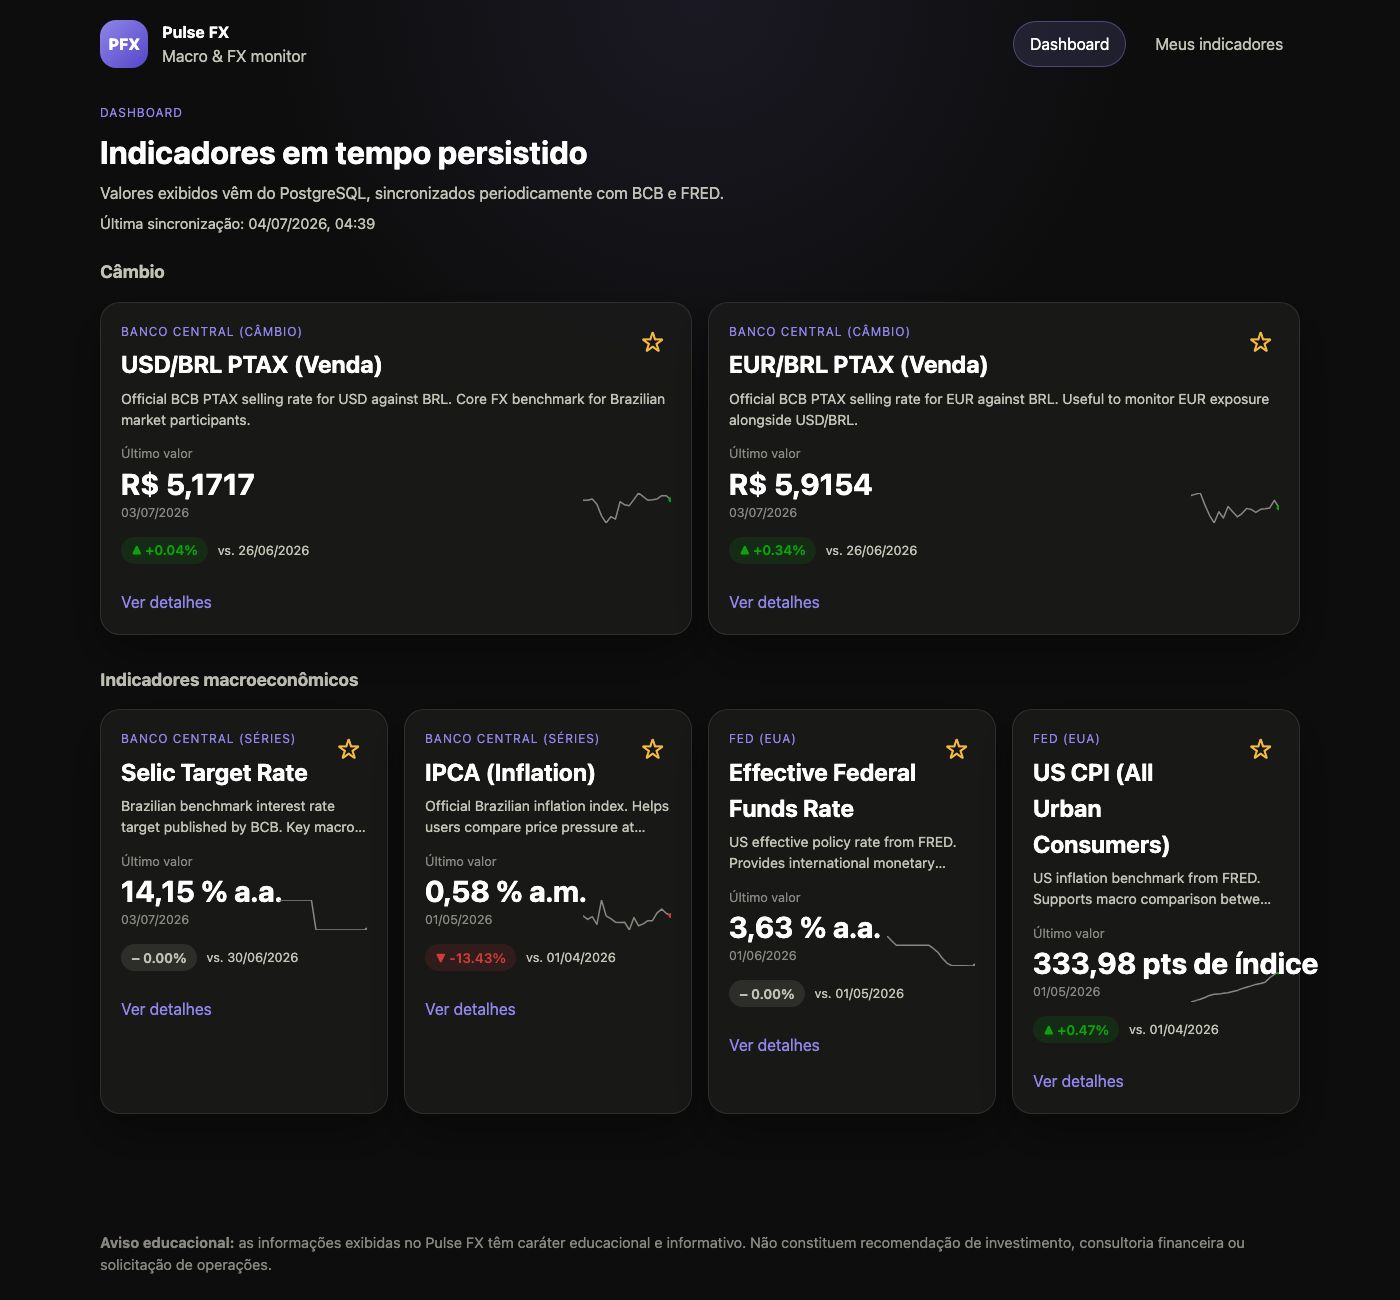
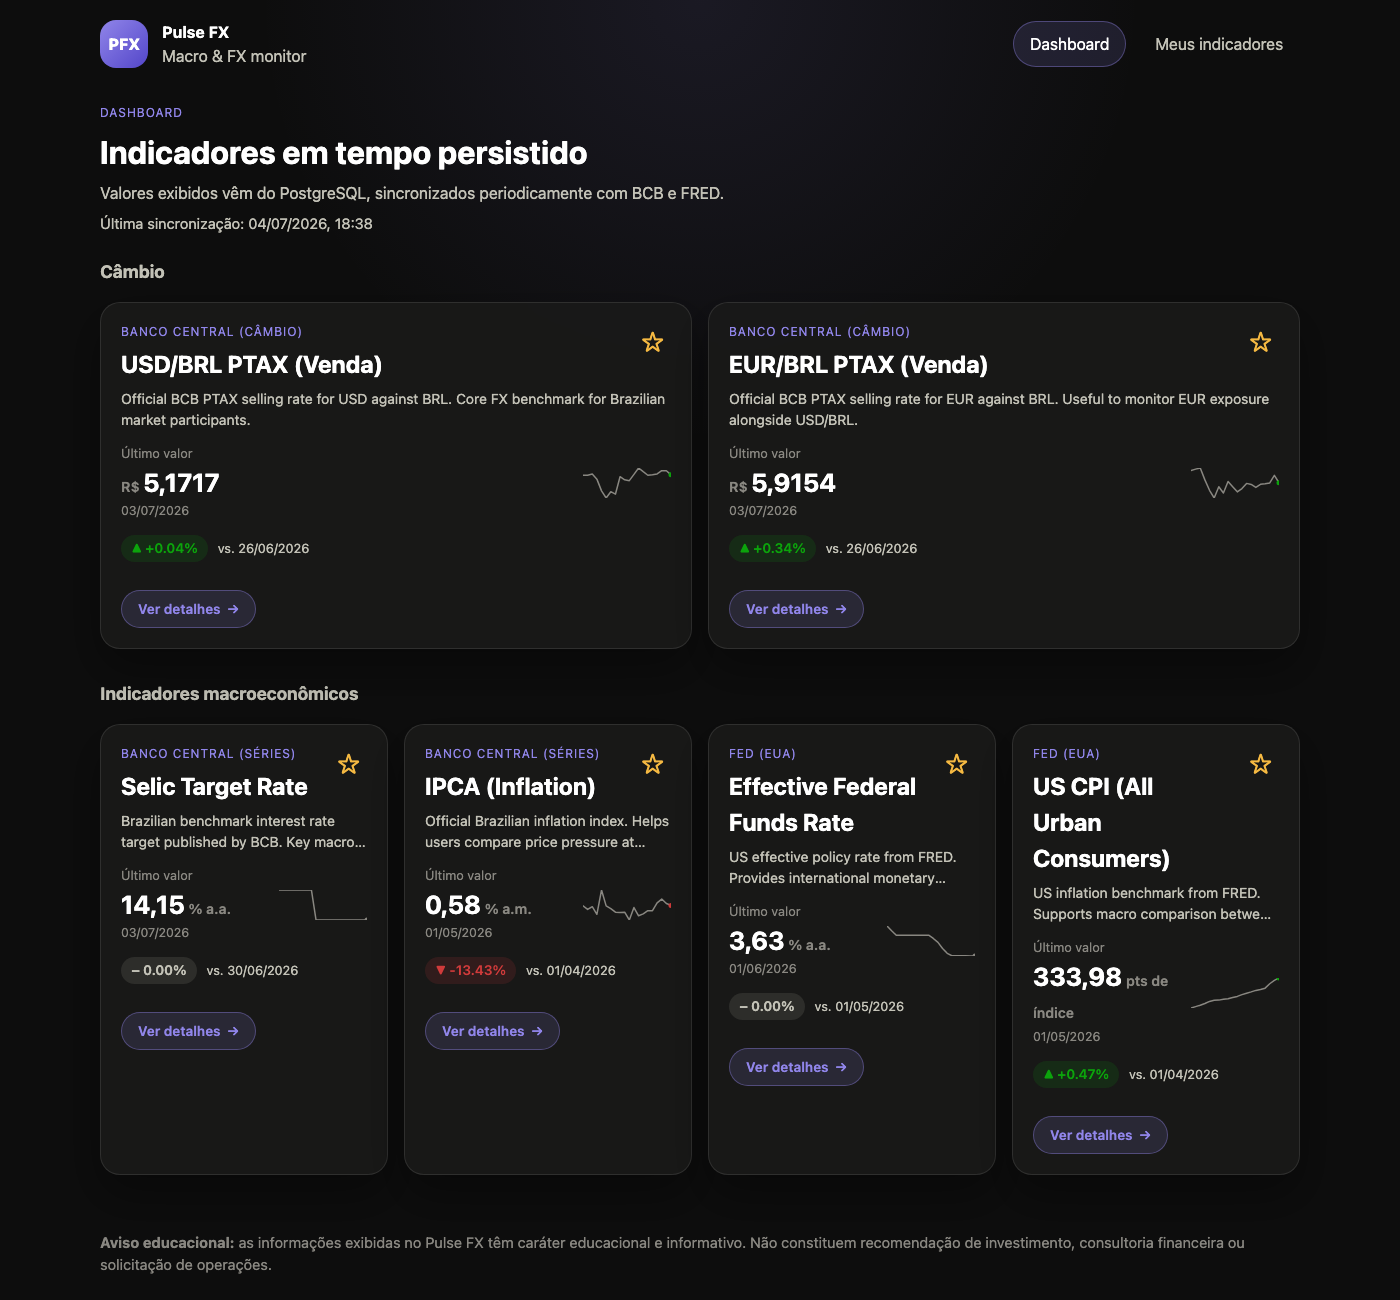
fix(web): keep card values from overflowing and style detail links as buttons
Long unit strings ("pts de índice") were rendered at the same size and
weight as the number itself with white-space: nowrap, so they either
overflowed the card (dashboard) or overlapped the neighboring column
(detail page stat summary) instead of wrapping.

Extract the number/unit split into a shared ValueWithUnit component:
the number stays the large bold figure, the unit rides along as a
smaller, muted, wrappable suffix — so it never competes with the
number for attention and never overflows regardless of how long the
unit text is. Also restyles "Ver detalhes"/"Abrir detalhe" as a proper
pill button instead of a plain colored link, and fixes FavoritesPage
to use the same friendly source labels as the rest of the app.

diff --git a/apps/web/src/styles/global.css b/apps/web/src/styles/global.css
@@ -215,6 +215,13 @@ a:focus-visible {
 .metric-value.large {
   font-size: 2rem;
   white-space: normal;
+  overflow-wrap: break-word;
+}
+
+.value-unit {
+  font-size: 0.55em;
+  font-weight: 600;
+  color: var(--ink-muted);
 }
 
 .variation-positive {
@@ -231,7 +238,7 @@ a:focus-visible {
 
 .card-hero {
   display: flex;
-  align-items: flex-end;
+  align-items: center;
   justify-content: space-between;
   gap: 1rem;
   margin: 0.9rem 0;
@@ -242,14 +249,16 @@ a:focus-visible {
   flex-direction: column;
   gap: 0.2rem;
   min-width: 0;
+  flex: 1;
 }
 
 .hero-value {
-  font-size: 1.85rem;
+  font-size: 1.6rem;
   font-weight: 700;
-  line-height: 1.15;
+  line-height: 1.25;
   color: var(--ink-primary);
-  white-space: nowrap;
+  white-space: normal;
+  overflow-wrap: break-word;
 }
 
 .hero-date {
@@ -312,8 +321,26 @@ a:focus-visible {
 
 .card-link {
   display: inline-flex;
-  margin-top: 0.75rem;
+  align-items: center;
+  gap: 0.4rem;
+  margin-top: 0.9rem;
+  padding: 0.5rem 1rem;
+  border-radius: 999px;
+  background: var(--brand-soft);
+  border: 1px solid var(--brand-border);
   color: var(--brand);
+  font-size: 0.85rem;
+  font-weight: 600;
+  transition:
+    background-color 0.15s ease,
+    color 0.15s ease,
+    transform 0.15s ease;
+}
+
+.card-link:hover {
+  background: var(--brand);
+  color: var(--surface-card-solid);
+  transform: translateX(2px);
 }
 
 .state-panel {

diff --git a/apps/web/src/shared/components/ValueWithUnit.tsx b/apps/web/src/shared/components/ValueWithUnit.tsx
@@ -1,0 +1,31 @@
+import { formatValue } from '../lib/format.js';
+
+interface ValueWithUnitProps {
+  value: number | null | undefined;
+  periodicity: 'DAILY' | 'MONTHLY';
+  prefix?: string | null;
+  suffix?: string | null;
+  className?: string;
+}
+
+// The unit (R$, % a.a., pts de índice, ...) rides alongside the number but
+// must never compete with it visually — otherwise a long unit like "pts de
+// índice" reads as loud as the number itself and, at the hero font size,
+// overflows its column instead of wrapping. Rendering it as a smaller,
+// muted span keeps the number the one thing the eye lands on first and
+// gives the browser a natural word-break point to wrap on if space is tight.
+export function ValueWithUnit({ value, periodicity, prefix, suffix, className }: ValueWithUnitProps) {
+  const formatted = formatValue(value, periodicity);
+
+  if (value === null || value === undefined) {
+    return <strong className={className}>{formatted}</strong>;
+  }
+
+  return (
+    <strong className={className}>
+      {prefix ? <span className="value-unit">{prefix} </span> : null}
+      {formatted}
+      {suffix ? <span className="value-unit"> {suffix}</span> : null}
+    </strong>
+  );
+}

diff --git a/apps/web/src/features/dashboard/IndicatorCard.tsx b/apps/web/src/features/dashboard/IndicatorCard.tsx
@@ -4,9 +4,9 @@ import {
   formatDate,
   formatPercent,
   formatSourceLabel,
-  formatValueWithUnit,
   variationClassName,
 } from '../../shared/lib/format.js';
+import { ValueWithUnit } from '../../shared/components/ValueWithUnit.js';
 import { Sparkline, type TrendDirection } from './Sparkline.js';
 
 interface IndicatorCardProps {
@@ -47,14 +47,13 @@ export function IndicatorCard({ indicator, onToggleFavorite, isUpdating }: Indic
       <div className="card-hero">
         <div className="hero-value-block">
           <span className="metric-label">Último valor</span>
-          <strong className="hero-value">
-            {formatValueWithUnit(
-              indicator.latestValue,
-              indicator.periodicity,
-              indicator.valuePrefix,
-              indicator.valueSuffix,
-            )}
-          </strong>
+          <ValueWithUnit
+            className="hero-value"
+            value={indicator.latestValue}
+            periodicity={indicator.periodicity}
+            prefix={indicator.valuePrefix}
+            suffix={indicator.valueSuffix}
+          />
           <span className="hero-date">{formatDate(indicator.referenceDate)}</span>
         </div>
         <Sparkline values={indicator.sparkline} direction={trendDirection(indicator.percentChange)} />
@@ -72,7 +71,7 @@ export function IndicatorCard({ indicator, onToggleFavorite, isUpdating }: Indic
       </div>
 
       <Link to={`/indicators/${indicator.code}`} className="card-link">
-        Ver detalhes
+        Ver detalhes <span aria-hidden="true">→</span>
       </Link>
     </article>
   );

diff --git a/apps/web/src/features/indicator-detail/IndicatorDetailPage.tsx b/apps/web/src/features/indicator-detail/IndicatorDetailPage.tsx
@@ -19,6 +19,7 @@ import {
   formatValueWithUnit,
   variationClassName,
 } from '../../shared/lib/format.js';
+import { ValueWithUnit } from '../../shared/components/ValueWithUnit.js';
 
 export function IndicatorDetailPage() {
   const { code = '' } = useParams();
@@ -79,14 +80,13 @@ export function IndicatorDetailPage() {
       <div className="detail-summary card">
         <div>
           <span className="metric-label">Último valor</span>
-          <strong className="metric-value large">
-            {formatValueWithUnit(
-              indicator.latestValue,
-              indicator.periodicity,
-              indicator.valuePrefix,
-              indicator.valueSuffix,
-            )}
-          </strong>
+          <ValueWithUnit
+            className="metric-value large"
+            value={indicator.latestValue}
+            periodicity={indicator.periodicity}
+            prefix={indicator.valuePrefix}
+            suffix={indicator.valueSuffix}
+          />
         </div>
         <div>
           <span className="metric-label">Referência</span>

diff --git a/apps/web/src/features/dashboard/IndicatorCard.test.tsx b/apps/web/src/features/dashboard/IndicatorCard.test.tsx
@@ -53,9 +53,15 @@ describe('IndicatorCard', () => {
   });
 
   it('shows the value unit and a reader-friendly source label', () => {
-    renderCard(baseIndicator);
-    expect(screen.getByText('R$ 5,6000')).toBeInTheDocument();
+    const { container } = renderCard(baseIndicator);
+    expect(container.querySelector('.hero-value')?.textContent).toBe('R$ 5,6000');
     expect(screen.getByText('Banco Central (câmbio)')).toBeInTheDocument();
+  });
+
+  it('renders the unit as a de-emphasized suffix, not a naked number', () => {
+    const { container } = renderCard({ ...baseIndicator, valuePrefix: null, valueSuffix: '% a.a.' });
+    expect(container.querySelector('.hero-value')?.textContent).toBe('5,6000 % a.a.');
+    expect(container.querySelector('.value-unit')?.textContent).toBe(' % a.a.');
   });
 
   it('renders a sparkline when enough history is available', () => {

diff --git a/apps/web/src/features/favorites/FavoritesPage.tsx b/apps/web/src/features/favorites/FavoritesPage.tsx
@@ -1,6 +1,7 @@
 import { useQuery } from '@tanstack/react-query';
 import { Link } from 'react-router-dom';
 import { api } from '../../shared/api/client.js';
+import { formatSourceLabel } from '../../shared/lib/format.js';
 
 export function FavoritesPage() {
   const favoritesQuery = useQuery({
@@ -37,12 +38,12 @@ export function FavoritesPage() {
           {favoritesQuery.data.map((favorite) => (
             <article key={favorite.id} className="card favorite-item">
               <div>
-                <p className="eyebrow">{favorite.source.replace('_', ' ')}</p>
+                <p className="eyebrow">{formatSourceLabel(favorite.source)}</p>
                 <h2>{favorite.name}</h2>
                 <p className="card-description">Código: {favorite.code}</p>
               </div>
               <Link to={`/indicators/${favorite.code}`} className="card-link">
-                Abrir detalhe
+                Abrir detalhe <span aria-hidden="true">→</span>
               </Link>
             </article>
           ))}